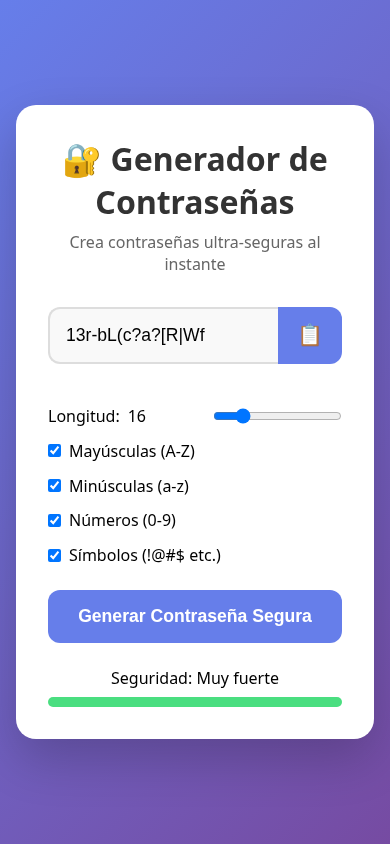
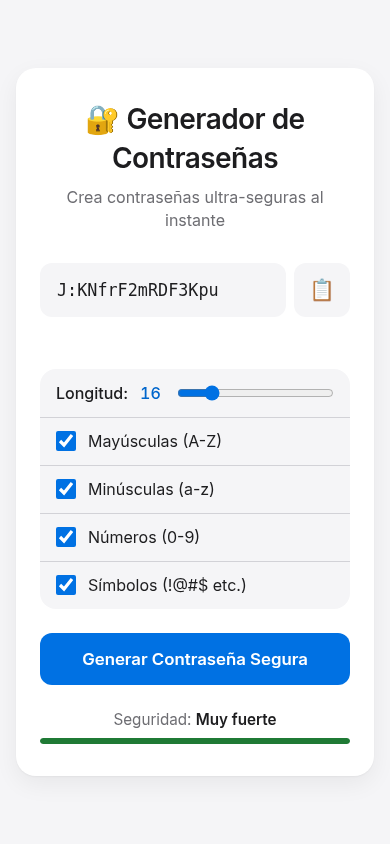
Estilo claro (2/2): campo, opciones, botones y animaciones suaves (#7)
* Propuesta estilo Apple (2/2): campo, botones, opciones tipo Ajustes, barra de seguridad y animaciones suaves

* README: captura nueva del teléfono con el estilo claro

diff --git a/style.css b/style.css
@@ -79,89 +79,130 @@ h1 {
 
 .password-display {
   display: flex;
-  margin-bottom: 1.5rem;
+  gap: var(--space-2);
+  margin-bottom: var(--space-2);
 }
 #password {
   flex: 1;
   /* Sin esto el campo pide unos 290px fijos y empuja la tarjeta fuera de la pantalla */
   width: 0;
   min-width: 0;
-  padding: 1rem;
-  font-size: 1.1rem;
-  border: 2px solid #ddd;
-  border-right: none;
-  border-radius: 12px 0 0 12px;
-  background: #f9f9f9;
+  padding: var(--space-4);
+  font-family: 'SF Mono', ui-monospace, Menlo, Consolas, monospace;
+  font-size: 1.05rem;
+  color: var(--text);
+  border: 1px solid transparent;
+  border-radius: var(--radius-sm);
+  background: var(--fill);
+  transition: border-color var(--dur) var(--ease), background var(--dur) var(--ease);
 }
+#password::placeholder { color: var(--text-2); }
 #copyBtn {
-  padding: 0 1.2rem;
-  background: #667eea;
-  color: white;
+  flex: none;
+  width: 56px;
+  background: var(--fill);
+  color: var(--text);
   border: none;
-  border-radius: 0 12px 12px 0;
+  border-radius: var(--radius-sm);
   font-size: 1.3rem;
   cursor: pointer;
+  transition: background var(--dur) var(--ease), transform var(--dur) var(--ease);
 }
+#copyBtn:hover { background: var(--fill-hover); }
+#copyBtn:active { transform: scale(0.95); }
 
+/* Opciones agrupadas como una lista de Ajustes */
 .options {
   display: grid;
-  gap: 0.8rem;
-  margin-bottom: 1.5rem;
+  margin: var(--space-5) 0;
+  background: var(--fill);
+  border-radius: var(--radius);
+  overflow: hidden;
 }
+.options > label,
+.option {
+  padding: var(--space-3) var(--space-4);
+  min-height: 48px; /* área cómoda para el dedo */
+}
+.options > * + * { border-top: 1px solid var(--border); }
 .options label {
   display: flex;
   align-items: center;
-  gap: 0.5rem;
+  gap: var(--space-3);
   cursor: pointer;
 }
-.option { display: flex; justify-content: space-between; align-items: center; }
+.option { display: flex; justify-content: space-between; align-items: center; gap: var(--space-4); }
+.option label { font-weight: 500; }
+#lengthValue { color: var(--accent-text); font-variant-numeric: tabular-nums; }
+/* Mismo truco que el campo: sin width/min-width en 0 el slider pide 129px fijos y desborda a 320px */
+#length { flex: 1; width: 0; min-width: 0; max-width: 60%; }
+input[type="checkbox"] { width: 20px; height: 20px; flex: none; }
+input[type="checkbox"],
+input[type="range"] { accent-color: var(--accent); cursor: pointer; }
 
 #generateBtn {
   width: 100%;
-  padding: 1rem;
-  background: #667eea;
-  color: white;
+  padding: var(--space-4);
+  background: var(--accent);
+  color: var(--on-accent);
   border: none;
-  border-radius: 12px;
-  font-size: 1.1rem;
-  font-weight: bold;
+  border-radius: var(--radius-sm);
+  font-family: inherit;
+  font-size: 1.05rem;
+  font-weight: 600;
   cursor: pointer;
-  transition: 0.3s;
+  transition: background var(--dur) var(--ease), transform var(--dur) var(--ease), box-shadow var(--dur) var(--ease);
 }
-#generateBtn:hover { background: #5a6fd8; transform: translateY(-2px); }
+#generateBtn:hover { background: var(--accent-hover); box-shadow: var(--shadow-hover); }
+#generateBtn:active { transform: scale(0.98); }
 
-.strength { margin-top: 1.5rem; text-align: center; }
+.strength { margin-top: var(--space-5); text-align: center; color: var(--text-2); font-size: 0.95rem; }
+#strengthText { color: var(--text); font-weight: 600; }
 .strength-bar {
-  height: 10px;
-  background: #eee;
-  border-radius: 5px;
+  height: 6px;
+  background: var(--fill-hover);
+  border-radius: 999px;
   overflow: hidden;
-  margin-top: 0.5rem;
+  margin-top: var(--space-2);
 }
 #strengthBar {
   height: 100%;
   width: 100%;
-  background: #4ade80;
-  transition: all 0.4s;
+  border-radius: inherit;
+  transition: width 250ms var(--ease), background-color 250ms var(--ease);
 }
-.weak { background: #ef4444; width: 30%; }
-.medium { background: #f59e0b; width: 60%; }
-.strong { background: #10b981; width: 80%; }
-.very-strong { background: #4ade80; width: 100%; }
+.weak { background: var(--danger); width: 30%; }
+.medium { background: #b25000; width: 60%; }
+.strong { background: #248a3d; width: 80%; }
+.very-strong { background: var(--success); width: 100%; }
 /* Aviso al copiar (lo leen también los lectores de pantalla) */
 .copy-status {
-  min-height: 1.2em;
-  margin: 6px 0 0;
-  font-size: 0.9rem;
-  color: #2e7d32;
+  min-height: 1.4em;
+  margin: 0;
+  font-size: 0.875rem;
+  color: var(--success);
 }
 .copy-status.error {
-  color: #c62828;
+  color: var(--danger);
 }
 
 /* Borde visible al moverse con el teclado (Tab) */
 button:focus-visible,
 input:focus-visible {
-  outline: 3px solid #4a90e2;
+  outline: var(--focus-ring);
   outline-offset: 2px;
+}
+
+/* Teléfonos pequeños: un poco menos de relleno en la tarjeta */
+@media (max-width: 360px) {
+  .container { padding: var(--space-5) var(--space-4); }
+}
+
+/* Quien pide menos movimiento en su teléfono no ve animaciones */
+@media (prefers-reduced-motion: reduce) {
+  *, *::before, *::after {
+    transition-duration: 0.01ms !important;
+    animation-duration: 0.01ms !important;
+  }
+  #copyBtn:active, #generateBtn:active { transform: none; }
 }
